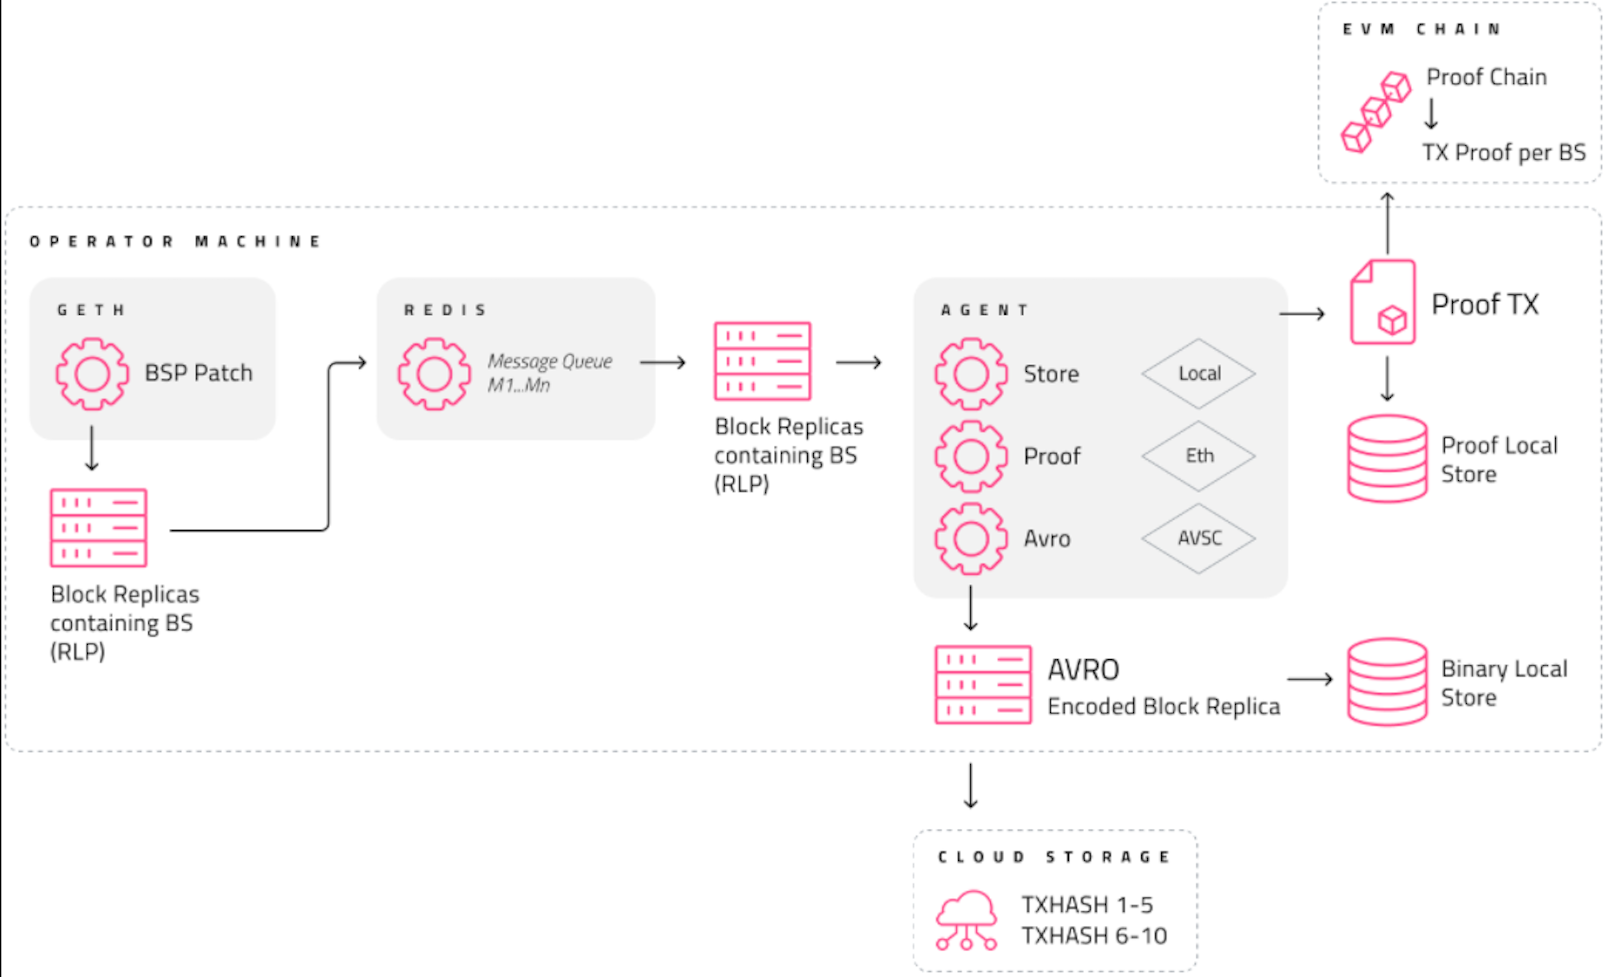
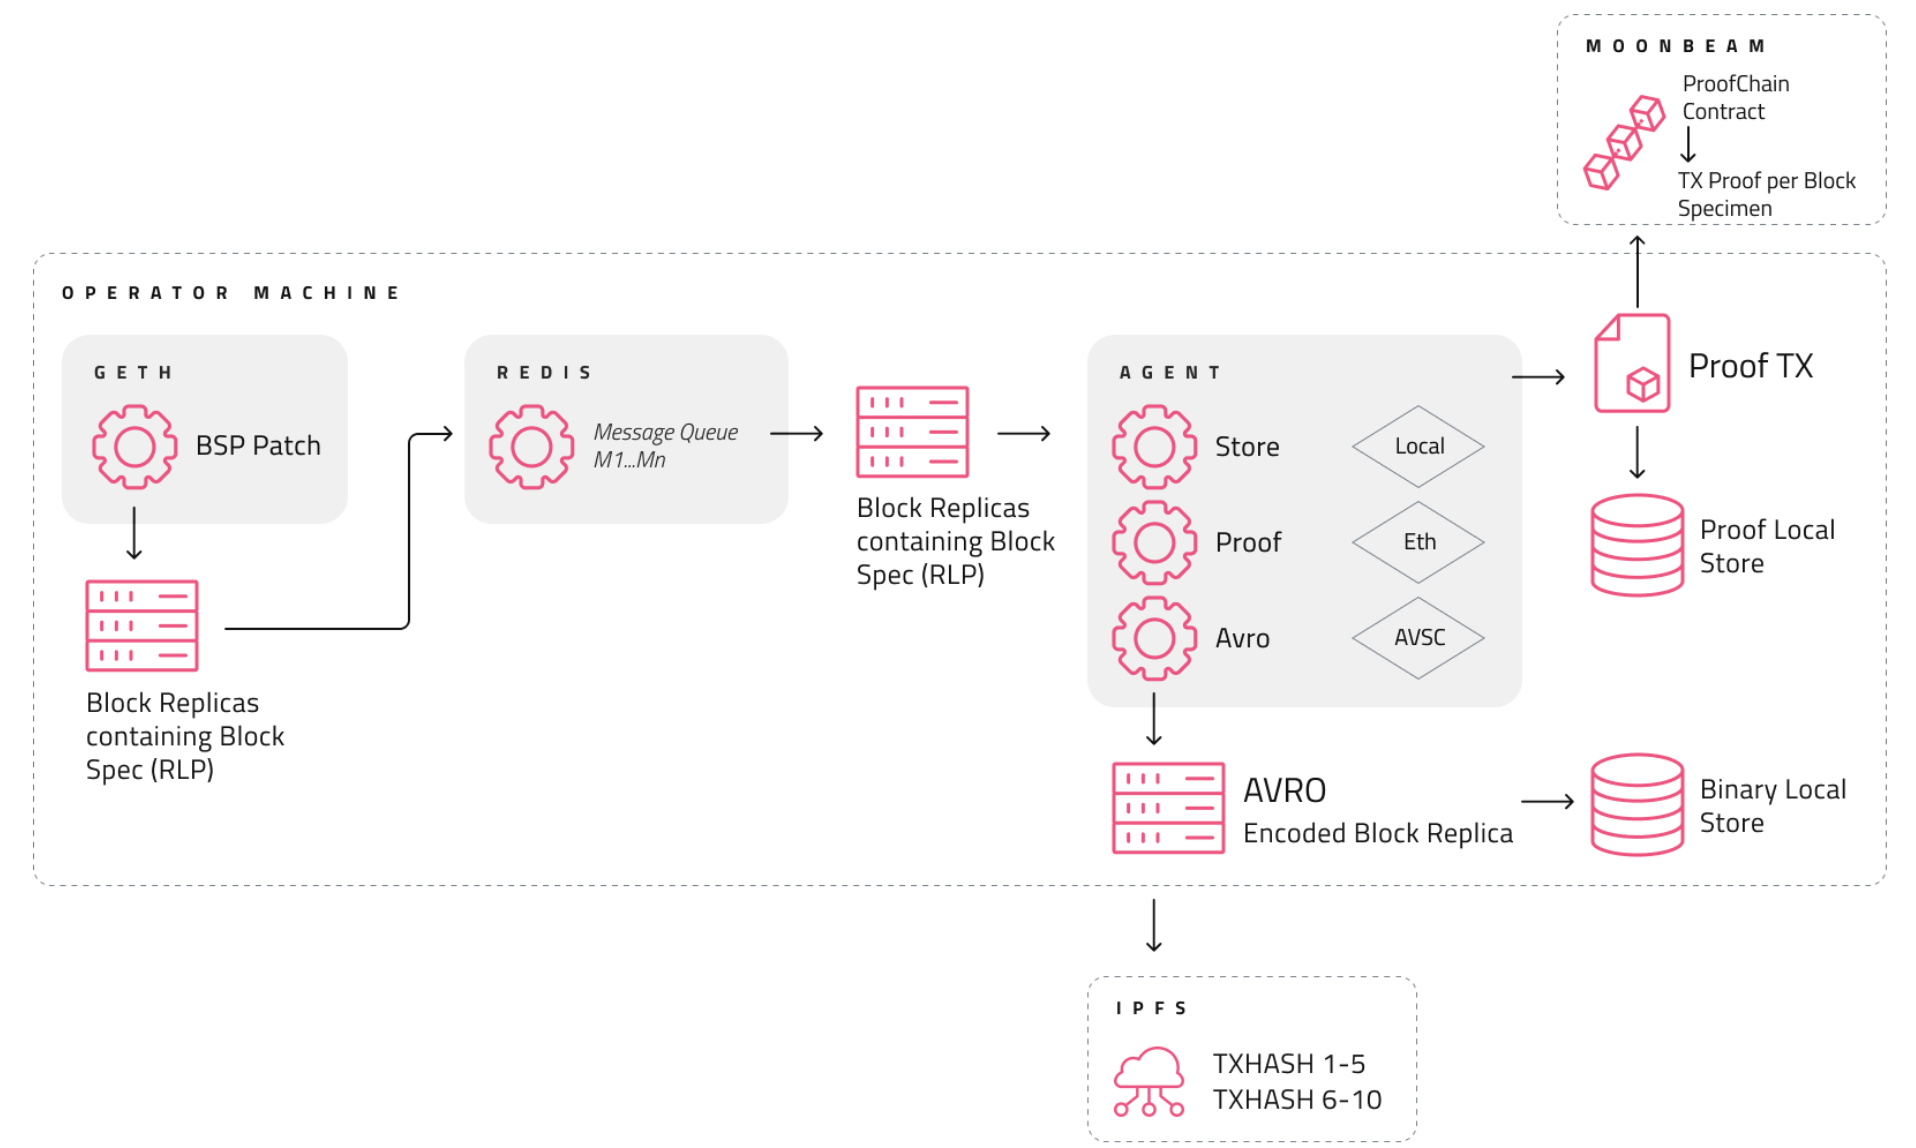
updates images for IPFS and Moonbeam

diff --git a/internal/proof/proof.go b/internal/proof/proof.go
@@ -26,7 +26,7 @@ func SendBlockReplicaProofTx(ctx context.Context, config *config.EthConfig, proo
 	ctx, cancel := context.WithTimeout(ctx, time.Second*time.Duration(proofTxTimeout))
 	defer cancel()
 
-	_, opts, _, err := getTransactionOpts(ctx, config, ethClient)
+	_, opts, chainId, err := getTransactionOpts(ctx, config, ethClient)
 	if err != nil {
 		log.Error("error getting transaction ops: ", err.Error())
 		txHash <- ""
@@ -35,7 +35,7 @@ func SendBlockReplicaProofTx(ctx context.Context, config *config.EthConfig, proo
 	}
 
 	contractAddress := common.HexToAddress(proofChain)
-	contract, err := NewProofChain(contractAddress, ethClient)
+	proofChainContract, err := NewProofChain(contractAddress, ethClient)
 	if err != nil {
 		log.Error("error binding to deployed contract: ", err.Error())
 		txHash <- ""
@@ -51,8 +51,21 @@ func SendBlockReplicaProofTx(ctx context.Context, config *config.EthConfig, proo
 		return
 	}
 	sha256Result := sha256.Sum256(jsonResult)
+	//var callResult *[]interface{}
 
-	transaction, err := contract.SubmitBlockSpecimenProof(opts, blockReplica.NetworkId, chainHeight, blockReplica.Hash, sha256Result, replicaURL)
+	//var params
+	NthSetting, err := proofChainContract.ProofChainCaller.NthBlock(&bind.CallOpts{}, 1131378225)
+	if err != nil {
+		log.Error("error with base block divisor call: ", err)
+		txHash <- ""
+
+		return
+	}
+	log.Info("Base Block divisor set to: ", NthSetting, "for chainId: ", chainId)
+
+	// checkTxExcept, err := proofChainContract.ProofChainCaller.contract.Call(&bind.CallOpts{}, callResult, proofChainContract.SubmitBlockSpecimenProof(),  )
+
+	transaction, err := proofChainContract.SubmitBlockSpecimenProof(opts, blockReplica.NetworkId, chainHeight, blockReplica.Hash, sha256Result, replicaURL)
 
 	if err != nil {
 		log.Error("error calling deployed contract: ", err)
@@ -92,3 +105,7 @@ func getTransactionOpts(ctx context.Context, config *config.EthConfig, ethClient
 
 	return addr, opts, chainID.Uint64(), err
 }
+
+// func getCallOpts(ctx context.Context, config *config.EthConfig, ethClient *ethclient.Client) (common.Address, *bind.CallOpts, uint64, error) {
+
+// }
